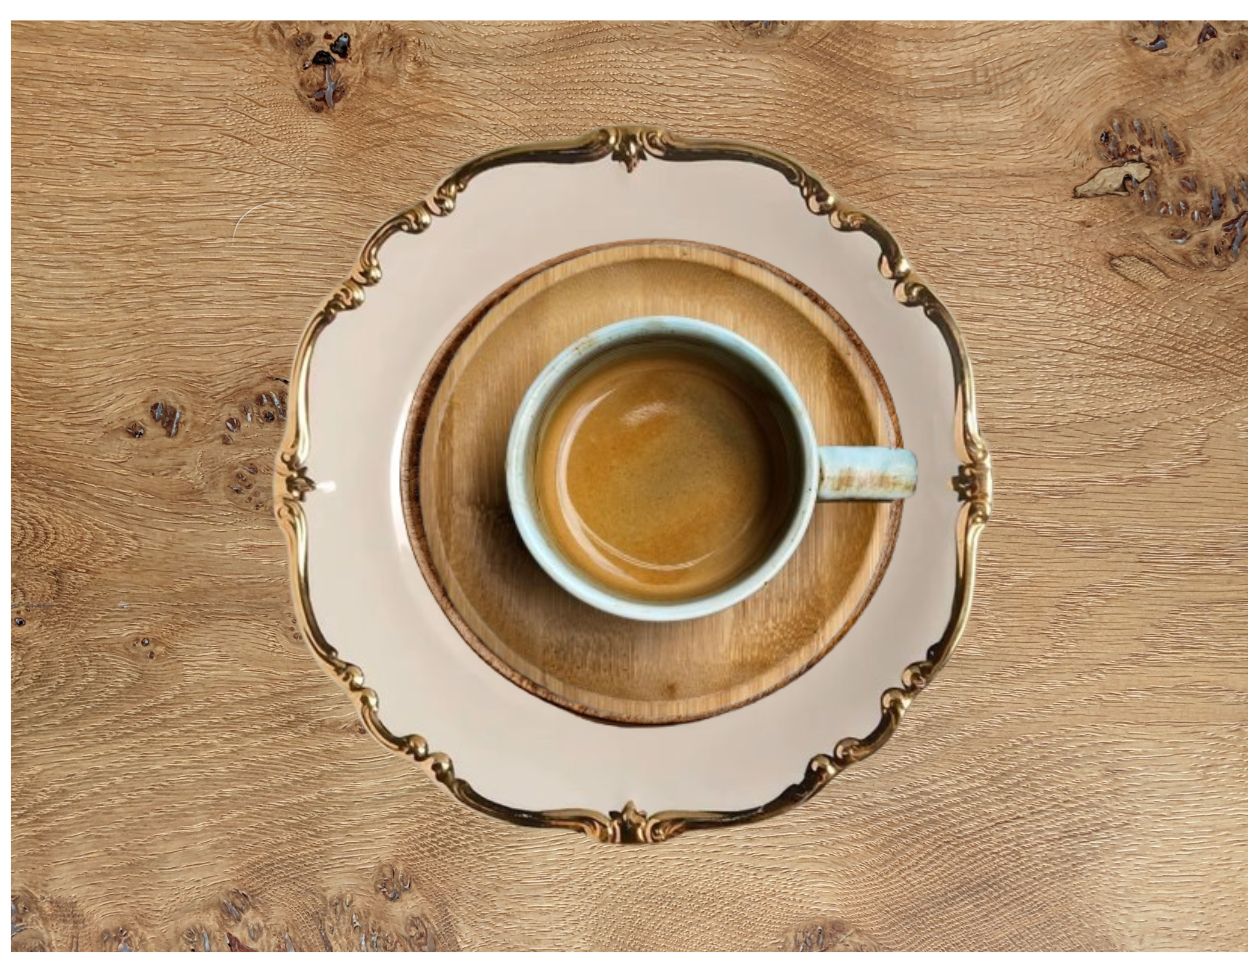
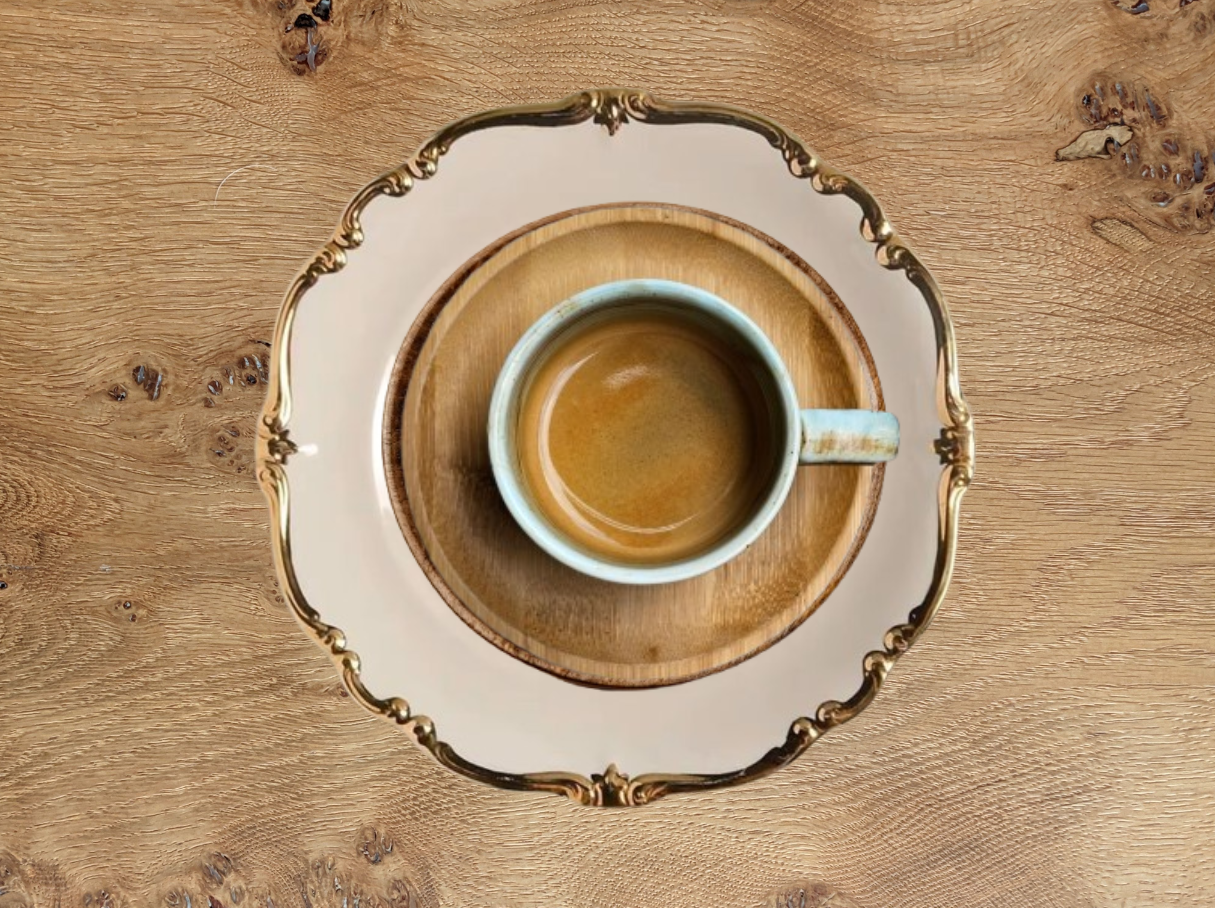
Placed CSS file into CSS folder and linked HTML to CSS

diff --git a/product.html b/product.html
@@ -4,7 +4,7 @@
     <meta charset="UTF-8">
     <meta name="viewport" content="width=device-width, initial-scale=1.0">
     <title>Oak & Steam Product</title>
-    <link rel="stylesheet" href="style.css">
+    <link rel="stylesheet" href="CSS/style.css">
      <link rel="stylesheet" href="https://cdnjs.cloudflare.com/ajax/libs/font-awesome/6.0.0/css/all.min.css">
 </head>
 <body class="productpage">

diff --git a/reservation.html b/reservation.html
@@ -4,7 +4,7 @@
     <meta charset="UTF-8">
     <meta name="viewport" content="width=device-width, initial-scale=1.0">
     <title>Oak & Steam Reservations</title>
-         <link rel="stylesheet" href="style.css">
+         <link rel="stylesheet" href="CSS/style.css">
      <link rel="stylesheet" href="https://cdnjs.cloudflare.com/ajax/libs/font-awesome/6.0.0/css/all.min.css">
 </head>
 <body>

diff --git a/enquiry.html b/enquiry.html
@@ -4,7 +4,7 @@
     <meta charset="UTF-8">
     <meta name="viewport" content="width=device-width, initial-scale=1.0">
     <title>Oak & Steam Enquiry</title>
-      <link rel="stylesheet" href="style.css">
+      <link rel="stylesheet" href="CSS/style.css">
      <link rel="stylesheet" href="https://cdnjs.cloudflare.com/ajax/libs/font-awesome/6.0.0/css/all.min.css">
 </head>
 <body>

diff --git a/index.html b/index.html
@@ -4,7 +4,7 @@
     <meta charset="UTF-8">
     <meta name="viewport" content="width=device-width, initial-scale=1.0">
     <title>Oak & Steam Home</title>
-     <link rel="stylesheet" href="style.css">
+     <link rel="stylesheet" href="CSS/style.css">
      <link rel="stylesheet" href="https://cdnjs.cloudflare.com/ajax/libs/font-awesome/6.0.0/css/all.min.css">
      </head>
 <body>

diff --git a/about_us.html b/about_us.html
@@ -4,7 +4,7 @@
     <meta charset="UTF-8">
     <meta name="viewport" content="width=device-width, initial-scale=1.0">
     <title>Oak & Steam About Us</title>
-    <link rel="stylesheet" href="style.css">
+    <link rel="stylesheet" href="CSS/style.css">
      <link rel="stylesheet" href="https://cdnjs.cloudflare.com/ajax/libs/font-awesome/6.0.0/css/all.min.css">
 </head>
 <body>

diff --git a/contact.html b/contact.html
@@ -4,7 +4,7 @@
     <meta charset="UTF-8">
     <meta name="viewport" content="width=device-width, initial-scale=1.0">
     <title>Oak & Steam</title>
-     <link rel="stylesheet" href="style.css">
+     <link rel="stylesheet" href="CSS/style.css">
      <link rel="stylesheet" href="https://cdnjs.cloudflare.com/ajax/libs/font-awesome/6.0.0/css/all.min.css">
 </head>
 <body>
